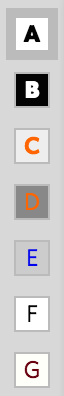
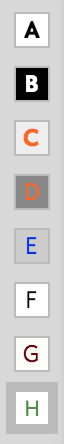
Documented new theme on About page

diff --git a/www/about.html b/www/about.html
@@ -30,7 +30,7 @@
 	</div>
 	<h3 id='themes'>Themes</h3>
 	<img src='/about-page-images/theme-selector.png' style='width: 32px; float: left; margin: 0.4em 1em 0 0.125em; '>
-	<p>Seven different themes are available. Click on the theme selection buttons at the top left of the page (labeled with the letters ‘A’ through ‘G’) to select a theme. (You can also change the theme in the Customize Appearance window (see below).)
+	<p>Eight different themes are available. Click on the theme selection buttons at the top left of the page (labeled with the letters ‘A’ through ‘H’) to select a theme. (You can also change the theme in the Customize Appearance window (see below).)
 	<h3 id='adjustable-width'>Adjustable width</h3>
 	<img src='/about-page-images/width-adjustment.png' style='width: 96px; float: left; margin: 0.4em 1em 0 0.125em; '>
 	<p>You can adjust the width of the content column by clicking on one of the three width selection buttons at the top-right of the page.
@@ -112,6 +112,7 @@
 		<tr><td>Switch to theme E (simple theme)</td><td>5</td></tr>
 		<tr><td>Switch to theme F (brutalist theme)</td><td>6</td></tr>
 		<tr><td>Switch to theme G (readthesequences.com theme)</td><td>7</td></tr>
+		<tr><td>Switch to theme H (classic Less Wrong theme)</td><td>8</td></tr>
 		<tr><td>Increase text size</td><td>=</td></tr>
 		<tr><td>Decrease text size</td><td>-</td></tr>
 		<tr><td>Reset to default text size</td><td>0</td></tr>
